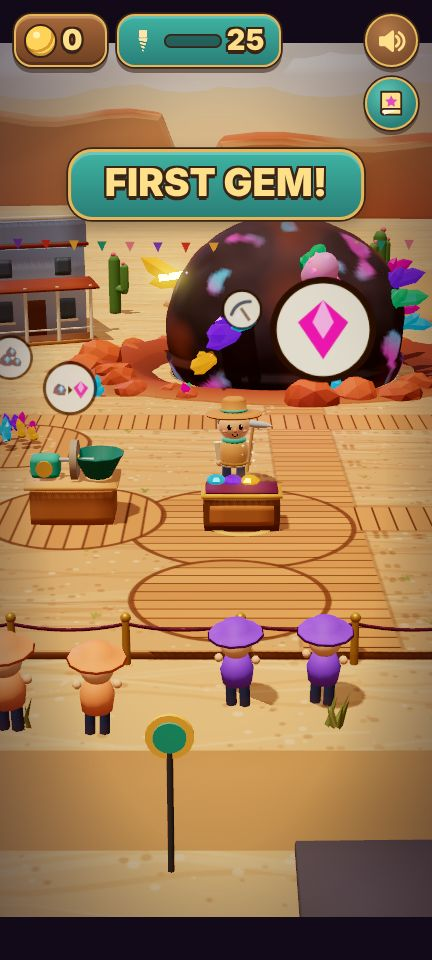
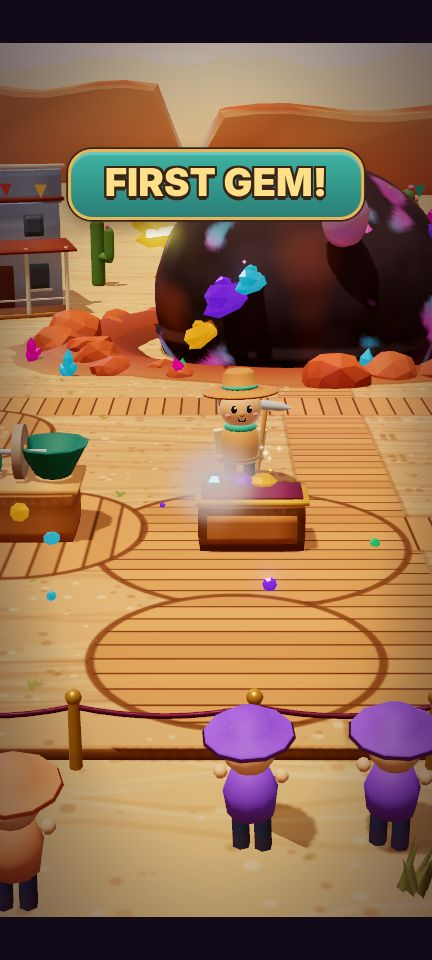
feat(meteor-gems): focus cinematic beats on their subject (#235)
Push the camera in further on key beats and fade the HUD, badges and
guide during a beat. Add a warm focus light and a burst on the subject,
pose a fresh critter beside the hero for its hatch, and add an egg-drop
banner. Screenshots are now taken at the peak of each beat.

Task: Players' Choice cinematic round, review fixes

Claude-Session: https://claude.ai/code/session_01S4KwR4YhTkX2s4stpo8xTf

diff --git a/prototypes/meteor-gem-works/scene.js b/prototypes/meteor-gem-works/scene.js
@@ -132,7 +132,9 @@ export function createScene(canvas, cfg, random) {
   const rim = new THREE.DirectionalLight(0xb9a8ff, 0.5); rim.position.set(-8, 6, -18);
   // a soft violet bounce from the crystals onto the front of the square (kept low: it washes out anything close to it)
   const crystalLight = new THREE.PointLight(FROST ? 0x6aa8ff : 0xc070ff, 1.5, 14, 1.2); crystalLight.position.set(W.meteor.x, W.meteor.y + 0.5, W.meteor.z + W.meteor.r + 3.5);
-  scene.add(hemi, sun, sun.target, rim, crystalLight);
+  // a warm key light that lands on the subject of a camera beat (always in the scene so no shader rebuild; 0 when idle)
+  const focusLight = new THREE.PointLight(0xfff0d8, 0, 8, 1.4);
+  scene.add(hemi, sun, sun.target, rim, crystalLight, focusLight);
 
   // ---- environment for reflections (gems, brass): a tiny warm studio, baked once with PMREM
   const pm = new THREE.PMREMGenerator(renderer);
@@ -654,18 +656,18 @@ export function createScene(canvas, cfg, random) {
   trail.renderOrder = 3; trail.frustumCulled = false; trail.instanceMatrix.setUsage(THREE.DynamicDrawUsage); trail.count = 0; scene.add(trail);
   /** Station badges (built stops, small) and the target's big bouncing badge, plus the floor trail from the hero to it. */
   function drawBadges(S, g, top) {
-    const tgt = g && !g.wait ? g.what : null;
+    const tgt = g && !g.wait ? g.what : null, hk = 1 - cam.showK; // badges fade out during a camera beat so only the subject reads
     badgeStops.forEach(([key, x, z, h, padId], i) => {
       const on = (!padId || S.pads.some((p) => p.id === padId && p.done)) && key !== tgt;
-      badges.setMatrixAt(i, _m.makeTranslation(x, h + 0.75, z)); bK.setXY(i, on ? 1.35 : 0, 0.85);
+      badges.setMatrixAt(i, _m.makeTranslation(x, h + 0.75, z)); bK.setXY(i, on ? 1.35 * hk : 0, 0.85);
     });
     const ti = NB - 1, cell = tgt ? iconOf(tgt) : -1;
-    if (cell >= 0 && top) { const b = Math.abs(Math.sin(tAll * 3.2)); bCell.setX(ti, cell); bCell.needsUpdate = true; badges.setMatrixAt(ti, _m.makeTranslation(top[0], top[2] + 2.3 + b * 0.35, top[1])); bK.setXY(ti, 2.5 + Math.sin(tAll * 6) * 0.08, 1); }
+    if (cell >= 0 && top) { const b = Math.abs(Math.sin(tAll * 3.2)); bCell.setX(ti, cell); bCell.needsUpdate = true; badges.setMatrixAt(ti, _m.makeTranslation(top[0], top[2] + 2.3 + b * 0.35, top[1])); bK.setXY(ti, (2.5 + Math.sin(tAll * 6) * 0.08) * hk, 1); }
     else bK.setXY(ti, 0, 0);
     badges.instanceMatrix.needsUpdate = true; bK.needsUpdate = true;
     // the trail: chevrons flowing from the hero to the target spot (hidden when close)
     let n = 0;
-    if (g && !g.wait) {
+    if (g && !g.wait && cam.showK < 0.3) {
       const dx = g.x - heroPos.x, dz = g.z - heroPos.z, L = Math.hypot(dx, dz), ry = Math.atan2(dx, dz) + Math.PI, step = LK.trailStep, off = (tAll * 1.6) % step;
       // ry + PI: the chevron's tip is its local -z, so this turns every tip toward the goal; they start at the hero's feet
       for (let d = 0.35 + off; d < L - 0.8 && n < TRAIL; d += step) { const k = Math.min(1, (d - 0.35) / 0.4, (L - 0.8 - d) / 0.6); trail.setMatrixAt(n++, _m.compose(_p.set(heroPos.x + dx / L * d, 0.26, heroPos.z + dz / L * d), _q.setFromEuler(_e.set(0, ry, 0)), _s.setScalar(Math.max(0.05, k) * LK.trailScale))); }
@@ -1253,7 +1255,7 @@ export function createScene(canvas, cfg, random) {
       guideSide = lerp(guideSide, Math.min(1, cover * 2) * LK.guideSide * side, Math.min(1, dt * 6));
       const ax = ax0 + guideSide;
       guideRing.visible = true;
-      guideRing.position.set(tx, 0.2, tz); guideRing.scale.setScalar(1 + Math.sin(tAll * 5) * 0.12); guideRing.material.opacity = g.wait ? 0.25 : 0.55;
+      guideRing.position.set(tx, 0.2, tz); guideRing.scale.setScalar(1 + Math.sin(tAll * 5) * 0.12); guideRing.material.opacity = (g.wait ? 0.25 : 0.55) * (1 - cam.showK);
       drawBadges(S, g, [ax, az, top]);
     } else { guideRing.visible = false; drawBadges(S, null, null); }
     drawMarks(S, g);
@@ -1321,7 +1323,7 @@ export function createScene(canvas, cfg, random) {
     if (cam.show) {
       cam.showK = Math.min(1, cam.showK + dt / 0.6); cam.show.t -= dt; if (cam.show.t <= 0) cam.show = null;
     } else cam.showK = Math.max(0, cam.showK - dt / 0.7);
-    if (cam.showK > 0 && (cam.show || cam.last)) { const sh = cam.show || cam.last; cam.last = sh; const k = ease(cam.showK); look = tmp.copy(camLook).lerp(sh.p, k); dd = lerp(dist, camDist() * sh.zoom, k); if (sh.pitch) pitch = lerp(pitch, sh.pitch, k); }
+    if (cam.showK > 0 && (cam.show || cam.last)) { const sh = cam.show || cam.last; cam.last = sh; const k = ease(cam.showK); look = tmp.copy(camLook).lerp(sh.p, k); dd = lerp(dist, camDist() * sh.zoom, k); if (sh.pitch) pitch = lerp(pitch, sh.pitch, k); focusLight.position.set(sh.p.x, sh.p.y + 2.4, sh.p.z + 1.8); focusLight.intensity = k * (cfg.cine ? cfg.cine.light : 0); } else focusLight.intensity = 0;
     camBase.set(look.x + Math.sin(yaw) * Math.cos(pitch) * dd, look.y + Math.sin(pitch) * dd, look.z + Math.cos(yaw) * Math.cos(pitch) * dd);
     const sh = cam.trauma * cam.trauma * 0.35;
     camera.position.set(camBase.x + (Math.random() - 0.5) * sh, camBase.y + (Math.random() - 0.5) * sh, camBase.z + (Math.random() - 0.5) * sh);
@@ -1400,6 +1402,8 @@ export function createScene(canvas, cfg, random) {
     },
     /** The tour bus honks in on the canyon road. */
     busIn() { if (busSt.mode === 'off') { busSt.mode = 'in'; busSt.t = 0; } },
+    /** Mid-arc of the egg's fall from the meteor to its spot, where the egg-drop beat looks. */
+    get eggAt() { return new THREE.Vector3((eggLodge.x + W.egg.x) / 2, 1.6, (eggLodge.z + W.egg.z) / 2); },
     get busAt() { return new THREE.Vector3(RD.park, 0.5, RD.z - 1.5); },
     /** The order kid cheers: delivered. */
     kidHappy() { kidSt.happy = 1.3; confetti(tmp.set(W.order.x, 1.6, W.order.z), 40, 2.5); },
@@ -1429,6 +1433,8 @@ export function createScene(canvas, cfg, random) {
     get heartAt() { return heart.position.clone(); },
     beltPath: (to) => { const P = pols[polIdx(to)]; return P === pols[1] ? beltPath : [beltPath[0]]; },
     /** Camera showcase: ease toward world point p and zoom (fraction of the normal distance) for sec seconds. */
+    /** How far the current camera beat has eased in (0 idle, 1 at its peak). */
+    get showK() { return cam.showK; },
     showcase(p, zoom, sec, pitch = 0, lock = false) { if (cam.show && cam.show.lock && !lock) return; cam.show = { p: p.clone(), zoom, t: sec, pitch, lock }; cam.last = cam.show; }, // a locked one (finale) is not cut short
     cheer(id) { fx.crowdCheer = 1.2; const p = tourists.find((o) => o.id === id); if (p) p.cheer = 0.9; },
     shake(a) { cam.trauma = Math.min(1, cam.trauma + a); },

diff --git a/prototypes/meteor-gem-works/game.js b/prototypes/meteor-gem-works/game.js
@@ -238,11 +238,21 @@ export function run(mode = 'play') {
   function moment(p, zoom, sec, pri = 1, o = {}) {
     const C = cfg.cine, t = S.t;
     if (pri < 2 && (t < cine.cool || (t < cine.until && pri <= cine.pri))) return false;
-    scene.showcase(p, zoom, sec, o.pitch || 0, !!o.lock);
+    // key beats push in past the normal framing so the subject fills the frame; locked finale shots keep their own framing
+    scene.showcase(p, pri >= 1 && !o.lock ? zoom * C.push : zoom, sec, o.pitch || 0, !!o.lock);
+    if (pri >= 1) { scene.burst(p.clone(), 1.6, 10); scene.ring(p.clone().setY(0.3), 0xffe9a8, 0.4, 3.2, 0.6); }
     cine.until = t + sec; cine.pri = pri; cine.cool = t + sec + C.gap * (pri === 0 ? 2 : 1);
     cine.slow = Math.max(cine.slow, o.slow ?? (pri >= 1 ? C.slow : 0)); cine.stop = Math.max(cine.stop, o.stop || 0); cine.bars = Math.max(cine.bars, sec);
     if (o.sting !== false) Sound.whoosh();
     return true;
+  }
+  // during a beat the HUD and world bubbles fade so only the subject, the banner and the pops read; input stays live
+  const CINE_HIDE = '.top,#bubble,#edge,#tap,#mute,#carry,#hint,#goal,#albumB,#share';
+  let cineOn = false, cineAnims = [];
+  function cineHud(on) {
+    if (on === cineOn) return; cineOn = on;
+    if (on) cineAnims = [...root.querySelectorAll(CINE_HIDE)].filter((e) => e.animate).map((e) => e.animate([{ opacity: getComputedStyle(e).opacity }, { opacity: 0 }], { duration: 300, fill: 'forwards', easing: 'ease-out' }));
+    else for (const a of cineAnims) { a.onfinish = () => a.cancel(); a.reverse(); }
   }
   /** Real seconds -> game seconds while a beat slows or stops time. */
   function timeK(real) {
@@ -325,9 +335,9 @@ export function run(mode = 'play') {
       }
       case 'rush': scene.rush(); Sound.rush(); banner(T('rush'), '', 2.2); moment(V(0, 2.5, cfg.world.meteor.z + 1.5), 0.8, 1.8, 1); break;
       case 'scoop': if (e.kind === 'coin') { cashBump = 1; Sound.coin(coinK++); } else Sound.pick(e.n || 1, false); break;
-      case 'eggDrop': scene.eggDrop(); moment(V(cfg.world.egg.x, 0, cfg.world.egg.z - 1.5), 0.8, 1.6, 1); break;
+      case 'eggDrop': scene.eggDrop(); banner(T('eggDrop'), '', 1.6); moment(scene.eggAt, 0.8, 1.6, 1); break;
       case 'hatchStart': scene.hatchStart(); hatchCracks = 0; break;
-      case 'hatch': scene.hatch(); Sound.fanfare(); banner(e.rarity && e.rarity !== 'common' ? T(e.rarity) : T('hatch'), `${critterName(e.who)}  ${perkText(e.who)}`, 2.8); offerShare(); moment(V(cfg.world.egg.x, 0.5, cfg.world.egg.z), 0.62, 2.0, 2, { stop: cfg.cine.stop }); saveNow(); break;
+      case 'hatch': scene.hatch(); Sound.fanfare(); banner(e.rarity && e.rarity !== 'common' ? T(e.rarity) : T('hatch'), `${critterName(e.who)}  ${perkText(e.who)}`, 2.8); offerShare(); moment(V(cfg.world.egg.x + cfg.critter.pop[0] * 0.5, 0.6, cfg.world.egg.z + cfg.critter.pop[1] * 0.5), 0.62, 2.0, 2, { stop: cfg.cine.stop }); saveNow(); break;
       // ---- the ghost town, the crown jeweler, the finale, stars and hats
       case 'cartGo': Sound.whoosh(); pop('➜', scene.cartAt.x, 1.8, scene.cartAt.z, 'gold'); break;
       case 'ghostLight': {
@@ -624,7 +634,7 @@ export function run(mode = 'play') {
   function draw(dt) {
     const g = lastGuide = L.guide(cfg, S);
     scene.update(S, dt, g); scene.render(); hud(dt); edgePointer(); coach();
-    if (cine.bars > 0) cine.bars -= dt; root.classList.toggle('cinema', cine.bars > 0);
+    if (cine.bars > 0) cine.bars -= dt; root.classList.toggle('cinema', cine.bars > 0); cineHud(cine.bars > 0);
   }
   // ---- first-time tutorial: a soft spotlight on the next stop with its icon and a few words. It moves on when the
   // player does the action there (never on a tap), skips what they already did, is saved, and can be skipped.

diff --git a/prototypes/meteor-gem-works/logic.js b/prototypes/meteor-gem-works/logic.js
@@ -370,7 +370,8 @@ export function step(cfg, S, dt, input = { x: 0, z: 0 }, tap = null) {
   else if (E.st === 'waiting' && near(h, W.egg.x, W.egg.z, cfg.egg.r)) { E.st = 'hatching'; E.t = 0; ev(S, 'hatchStart', { who: E.who }); S.progressT = 0; }
   else if (E.st === 'hatching' && E.t >= cfg.egg.hatch) {
     const rare = (cfg.critters.find((c) => c.id === E.who) || {}).rarity;
-    S.critters.push({ id: E.who, x: W.egg.x, z: W.egg.z, vx: 0, vz: 0, face: 0 }); S.eggs++; S.noRare = rare === 'rare' ? 0 : S.noRare + 1;
+    // a fresh critter hops out beside the hero, toward the camera, and poses there for the hatch beat
+    S.critters.push({ id: E.who, x: W.egg.x + cfg.critter.pop[0], z: W.egg.z + cfg.critter.pop[1], vx: 0, vz: 0, face: 0, stay: cfg.critter.stay }); S.eggs++; S.noRare = rare === 'rare' ? 0 : S.noRare + 1;
     ev(S, 'hatch', { who: E.who, rarity: rare }); S.progressT = 0;
     nextEgg(cfg, S);
   }
@@ -382,6 +383,7 @@ export function step(cfg, S, dt, input = { x: 0, z: 0 }, tap = null) {
   let lead = h;
   for (const c of S.critters) {
     if (c.hide) { c.x = h.x; c.z = h.z; c.vx = c.vz = 0; continue; }
+    if (c.stay > 0) { c.stay -= dt; lead = c; continue; } // a fresh one poses on its egg spot for the hatch camera beat
     const f = cfg.critter.follow, tx = lead.x - Math.sin(lead.face) * f, tz = lead.z - Math.cos(lead.face) * f, kk = cfg.critter.spring;
     c.vx += ((tx - c.x) * kk - c.vx * 2 * Math.sqrt(kk)) * dt; c.vz += ((tz - c.z) * kk - c.vz * 2 * Math.sqrt(kk)) * dt;
     c.x += c.vx * dt; c.z += c.vz * dt;

diff --git a/production/qa/evidence/meteor-gem-works/cine/cinematic-2026-11-26.md b/production/qa/evidence/meteor-gem-works/cine/cinematic-2026-11-26.md
@@ -19,3 +19,14 @@ Goal: Players' Choice (playbook §11: 50K plays, then 15×D1 + 10×share of sess
 
 ## Not proven
 - Real-phone feel and FPS; D1 and session length are only measurable after publish.
+
+## Round 2 (focus pass)
+
+Screenshots are now taken at the peak of each beat (`scene.showK` = 1), not at its start.
+
+- Key beats push the camera in further (`cine.push` 0.72 × the beat's zoom), so the subject fills about half the frame. Locked finale shots keep their framing.
+- During a beat, the HUD pills, buttons, guide trail, goal ring and station badges fade out. The banner, the pops and touch input stay.
+  - With the top pills gone, the letterbox bars read as symmetric top and bottom.
+- A warm focus light (`cine.light`) eases onto the subject, with a burst and a ring at its start.
+- Hatch: the new critter hops out beside the hero toward the camera (`critter.pop`). It poses there for `critter.stay` game seconds before it joins the parade.
+- Egg drop: new "AN EGG!" banner in 7 languages. The camera frames the middle of the egg's arc.
